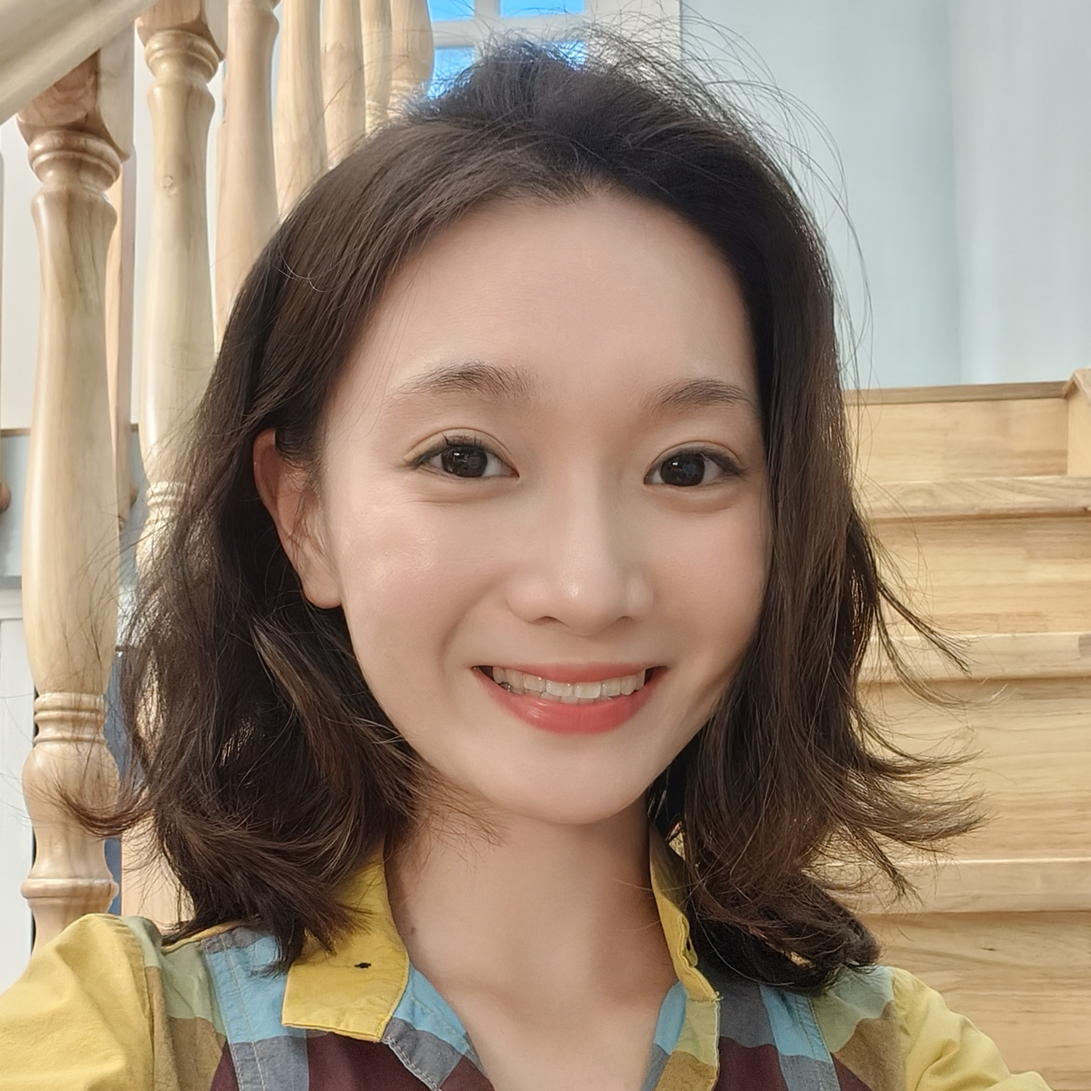
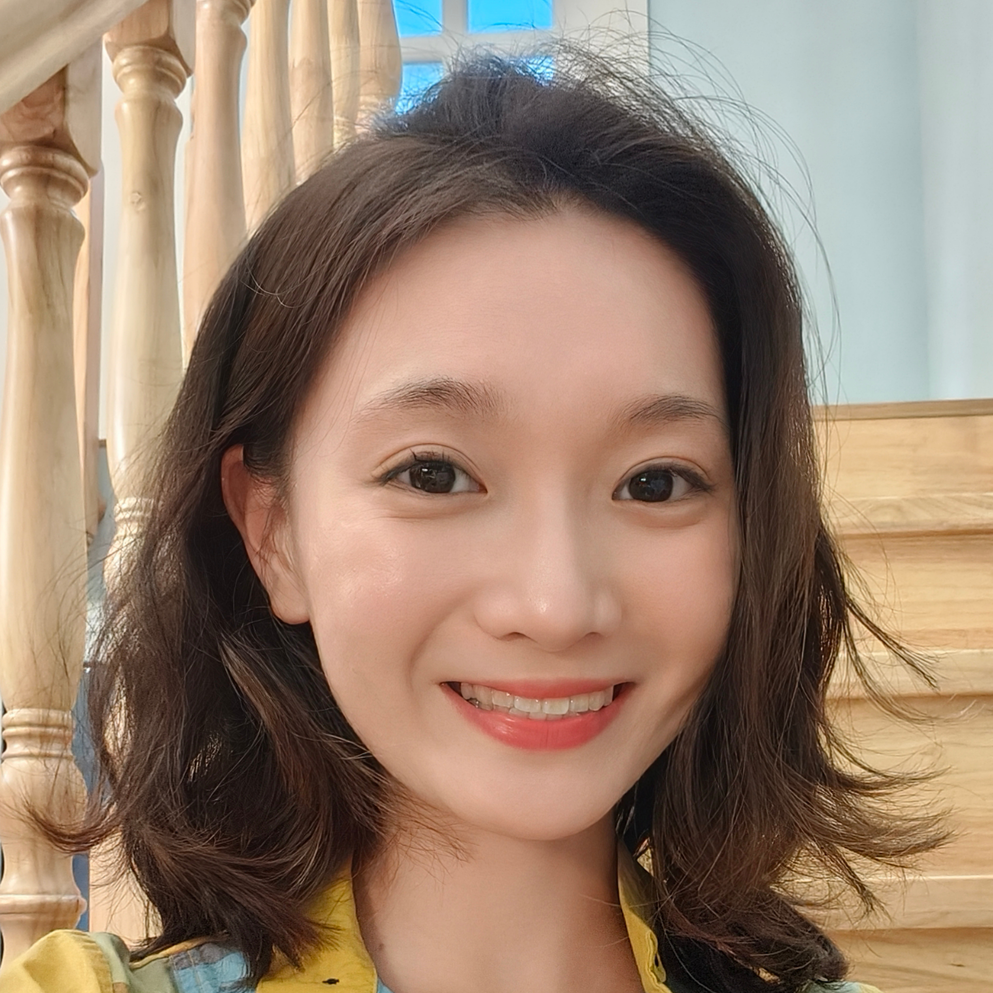
add team member

diff --git a/modules/TeamData/2025.ts b/modules/TeamData/2025.ts
@@ -172,6 +172,13 @@ export const data = [
                 emoji: "😟"
             },
             {
+                name: "Lucy Wu",
+                position: "Experience",
+                funFact: "I went into white house before!",
+                photo: "/team/2025/LucyWu.jpg",
+                emoji: "🥹"
+            },
+            {
                 name: "Zoeya Khan",
                 position: "Experience",
                 funFact:
